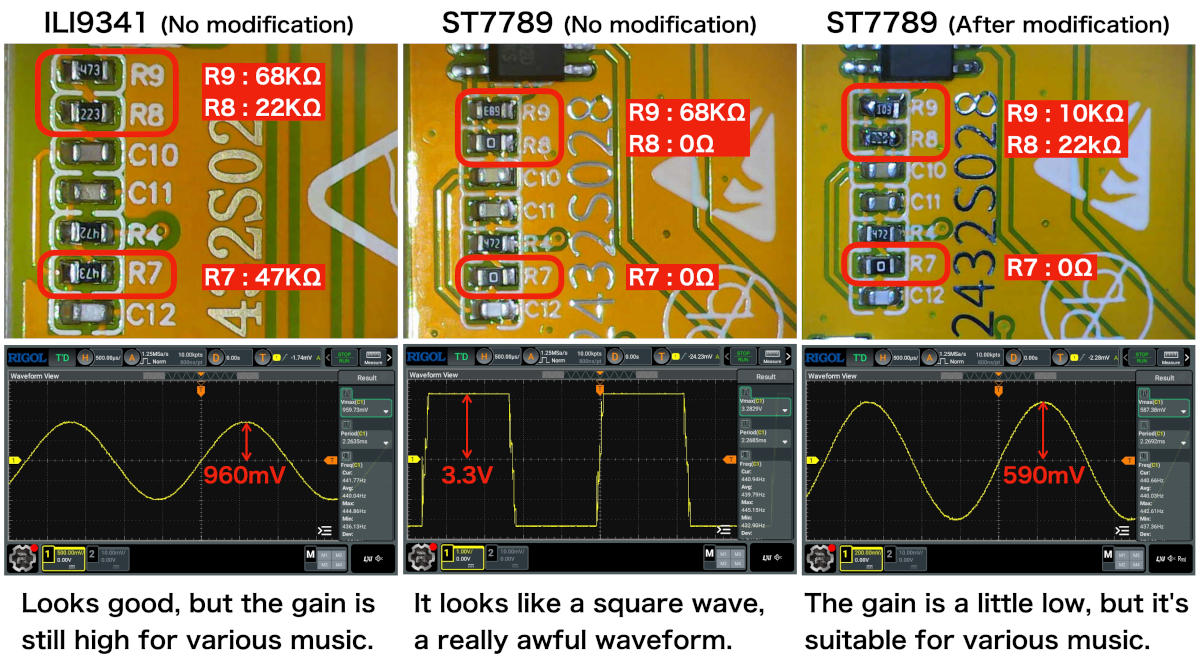
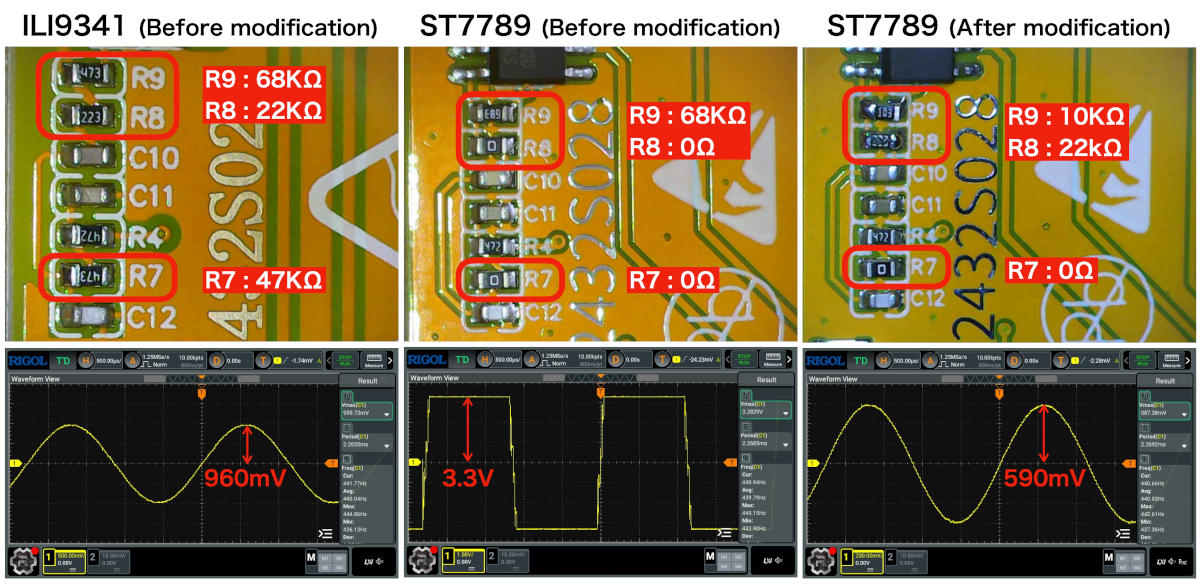
Update README.md.

diff --git a/LVGL/LVGL_Arduino_MP3Player/README.md b/LVGL/LVGL_Arduino_MP3Player/README.md
@@ -67,11 +67,11 @@ Even when I changed the resistors of ST7789 to the same as ILI9341, the high fre
 <details>
 <summary>Replace resistors R8 and R9</summary>
 
-| Resister | Before modify | After modify |
-| :------: | ------------: | -----------: |
-| R7       | 0 Ω           | 0 Ω          |
-| R8       | 0 Ω           | 22 KΩ        |
-| R9       | 68 KΩ         | 10 KΩ        |
+| Resister | Before modification | After modification |
+| :------: | ------------------: | -----------------: |
+| R7       | 0 Ω                 | 0 Ω                |
+| R8       | 0 Ω                 | 22 KΩ              |
+| R9       | 68 KΩ               | 10 KΩ              |
 </details>
 
 #### 440 Hz/sine wave sound test
